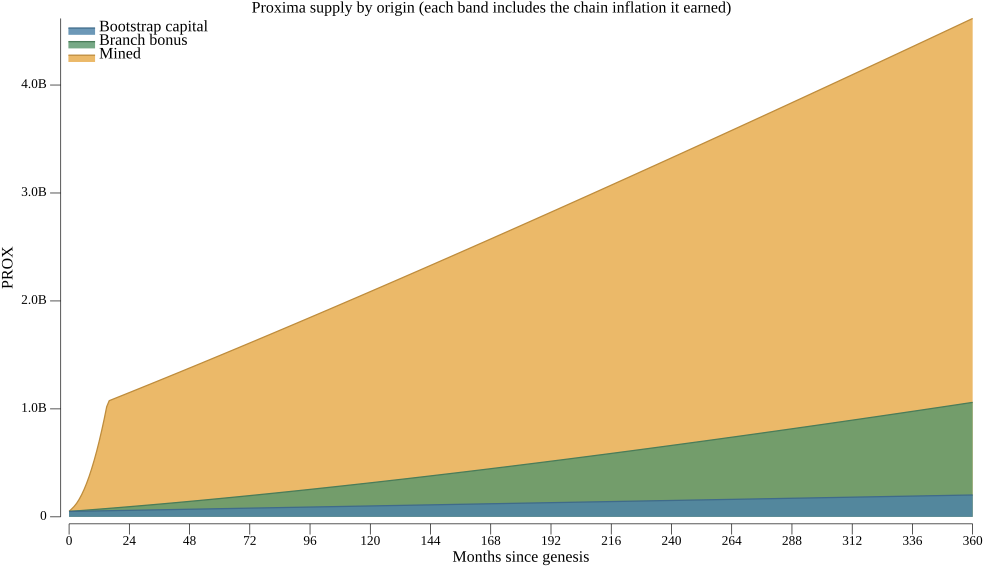
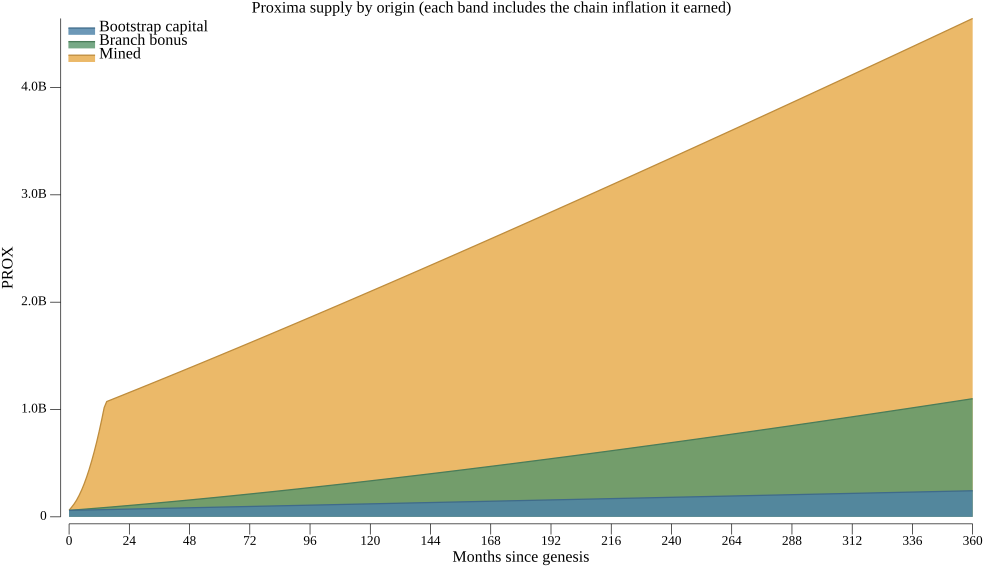
overview: the genesis share is 6%, and the charts with it
Regenerated supply-30y and inflation-rate-30y against the new ledger constants
(proxi util inflation_emulation 30, at the tool's default pace of 4.7 slots per
transit). Genesis is 60,000,000 PROX and the mined remainder 940,000,000.

The inline numbers move with them: the reward is flat at 500 PROX for roughly the
first 46 days and then grows by 464 motes per slot after slot 388,125, emission
completes in roughly fourteen to fifteen months rather than fifteen to seventeen,
and the launch year is around 1,230% rather than 1,300%. Year 3 at 9.8% and year
30 at 2.9% still read as they did, so those sentences stand.

diff --git a/overview/2-tokens-and-supply.md b/overview/2-tokens-and-supply.md
@@ -28,16 +28,16 @@ Most PROX does not exist yet. The base supply arrives from two places:
 
 | Source | Amount | Share |
 |--------|--------|-------|
-| Bootstrap capital created at genesis | 50,000,000 PROX | 5% |
-| Mined during the fair launch, the gradual decentralization process | 950,000,000 PROX | 95% |
+| Bootstrap capital created at genesis | 60,000,000 PROX | 6% |
+| Mined during the fair launch, the gradual decentralization process | 940,000,000 PROX | 94% |
 | **Total base supply** | **1,000,000,000 PROX** | 100% |
 
 Inflation is added on top of this, by continuous contribution to the consensus.
 
-The remaining 95% sits on a single **mine chain** and is released gradually, one reward
+The remaining 94% sits on a single **mine chain** and is released gradually, one reward
 at a time, to whoever competes for it. Mining requires no tokens to begin — it is the one
 entry into Proxima that does not ask you to already hold some — and the reward is shaped
-so that the whole of the mineable supply is emitted over roughly fifteen to seventeen
+so that the whole of the mineable supply is emitted over roughly fourteen to fifteen
 months rather than several years.
 
 That release *is* the decentralization process: with every reward, a larger share of the
@@ -136,7 +136,7 @@ suggest something near half the maximum, and that is not what the ledger sees.
 
 The amount is flat from genesis onward — it does not decay on a schedule. What falls over
 time is its significance: five PROX a slot is a meaningful addition when the supply is
-fifty million, and a rounding error once the supply is in the billions.
+sixty million, and a rounding error once the supply is in the billions.
 
 ## How the supply behaves in the long run
 
@@ -155,8 +155,8 @@ shrinks. The result is a steep launch flattening into a long, slow climb.
 
 <p style="text-align:center;"><img src="../static/img/supply-30y.png">
 
-The first eighteen months are the whole of the mining phase: supply goes from the
-50,000,000 PROX of bootstrap capital to about a billion, and the mined band — the tokens
+The first fourteen months or so are the whole of the mining phase: supply goes from the
+60,000,000 PROX of bootstrap capital to about a billion, and the mined band — the tokens
 that reached people by open competition — becomes and stays the largest part of the
 supply. Each band includes the chain inflation the tokens in it earned, which is why the
 bootstrap band keeps growing in absolute terms while shrinking as a share.
@@ -164,7 +164,7 @@ bootstrap band keeps growing in absolute terms while shrinking as a share.
 <p style="text-align:center;"><img src="../static/img/inflation-rate-30y.png">
 
 Year-over-year the picture is a cliff and then a gentle slope, which is why the chart uses
-a logarithmic scale. The launch year is around 1,300% as mining floods in. Once mining
+a logarithmic scale. The launch year is around 1,230% as mining floods in. Once mining
 ends the rate drops to single digits — just under 10% in year 3 — and declines steadily
 from there, reaching under 3% by year 30.
 

diff --git a/participate/mine.md b/participate/mine.md
@@ -1,7 +1,7 @@
 # Mining
 
-Most of Proxima's tokens do not exist yet. At genesis only 5% of the final supply is
-created; the other 95% is **mined**, one reward at a time, by anyone who cares to
+Most of Proxima's tokens do not exist yet. At genesis only 6% of the final supply is
+created; the other 94% is **mined**, one reward at a time, by anyone who cares to
 compete for it. Mining is how a newcomer with no tokens gets tokens.
 
 This page is about running the miner. Why the launch is arranged this way belongs to the
@@ -17,7 +17,7 @@ Only one transit can follow any given mine output, so miners race for each step.
 a step gives you the reward and nothing else: no fees, no privileged position, no
 influence over the next step.
 
-The chain carries a counter of how much remains to be minted. It starts at 950,000,000
+The chain carries a counter of how much remains to be minted. It starts at 940,000,000
 PROX and falls with every transit. When it reaches zero, mining is over and the supply is
 complete at 1,000,000,000 PROX.
 
@@ -70,15 +70,15 @@ It runs until you stop it, or until the chain is exhausted. Useful options:
 
 ### The reward, and how it changes
 
-For roughly the first 45 days the reward _A_ is flat at **375 PROX** per transit. After
-slot 379,688 it grows by 462 motes per slot, so a transit mined later is worth slightly
+For roughly the first 46 days the reward _A_ is flat at **500 PROX** per transit. After
+slot 388,125 it grows by 464 motes per slot, so a transit mined later is worth slightly
 more than one mined earlier.
 
 The ramp is about **how long emission takes**, not about hashrate. However much hashrate
 arrives, the retarget holds the chain at its target pace, so transits keep arriving at
-roughly the same rate — and at a flat 375 PROX that rate would take more than three years
+roughly the same rate — and at a flat 500 PROX that rate would take close to three years
 to mint the remaining supply. The reward grows so that the whole of it is mined in
-**roughly fifteen to seventeen months** instead.
+**roughly fourteen to fifteen months** instead.
 
 ### Difficulty, and why waiting helps
 

diff --git a/overview/fair_launch.md b/overview/fair_launch.md
@@ -10,6 +10,6 @@ Until it is written, the mechanics are covered elsewhere:
 
 - [Tokens and supply](overview/2-tokens-and-supply.md) — the genesis share, the mined
   remainder, and how inflation is earned.
-- [Mining](participate/mine.md) — competing for the mined 95%.
+- [Mining](participate/mine.md) — competing for the mined 94%.
 - [Being permissionless. Bootstrap](overview/permissionless.md) — how a ledger that does
   not use proof of work can still be started from nothing.

diff --git a/overview/3-participate.md b/overview/3-participate.md
@@ -109,7 +109,7 @@ prefer a deposit over it.
 
 ## Mining: a way in, while it lasts
 
-Mining is how the unminted 95% of the supply reaches people, and it is the only route
+Mining is how the unminted 94% of the supply reaches people, and it is the only route
 into Proxima for someone holding nothing at all: the work is CPU-bound, the fee comes out
 of the reward, and no balance is required to start.
 
